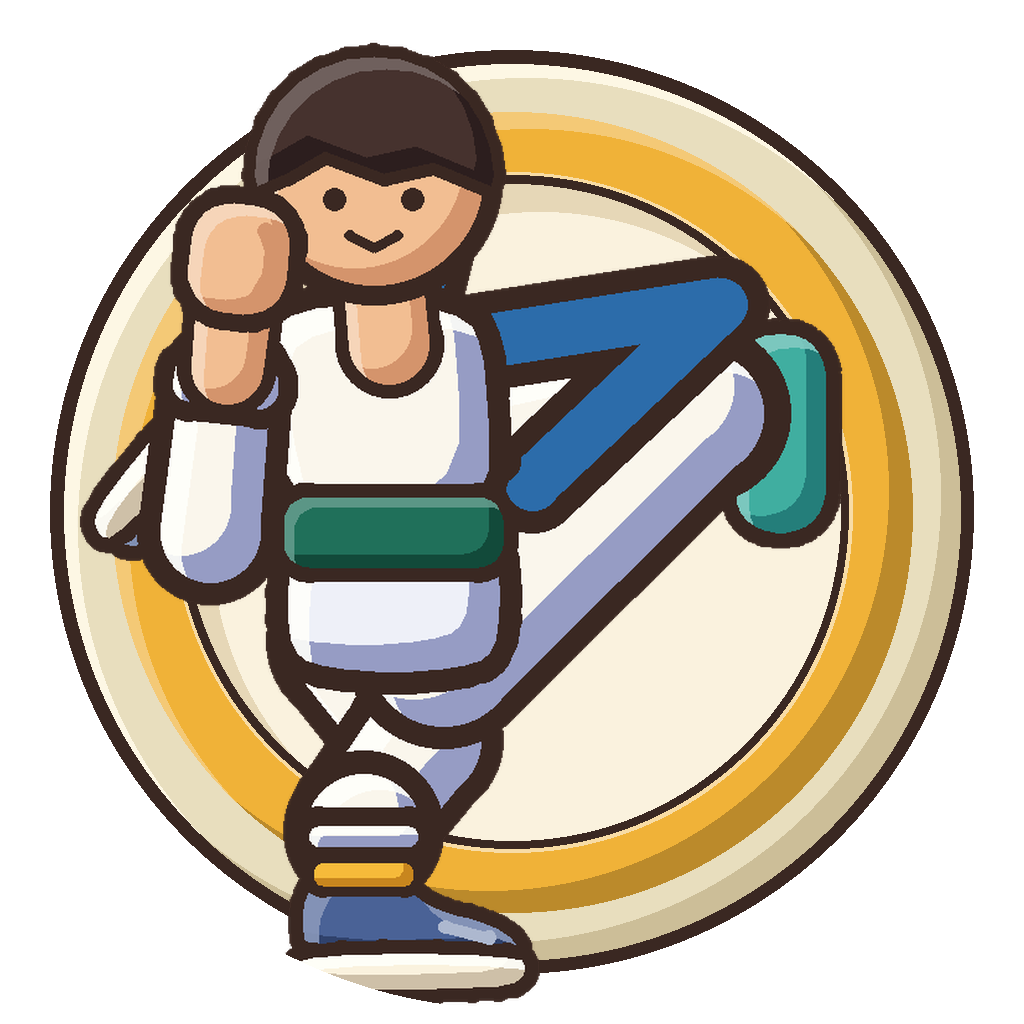
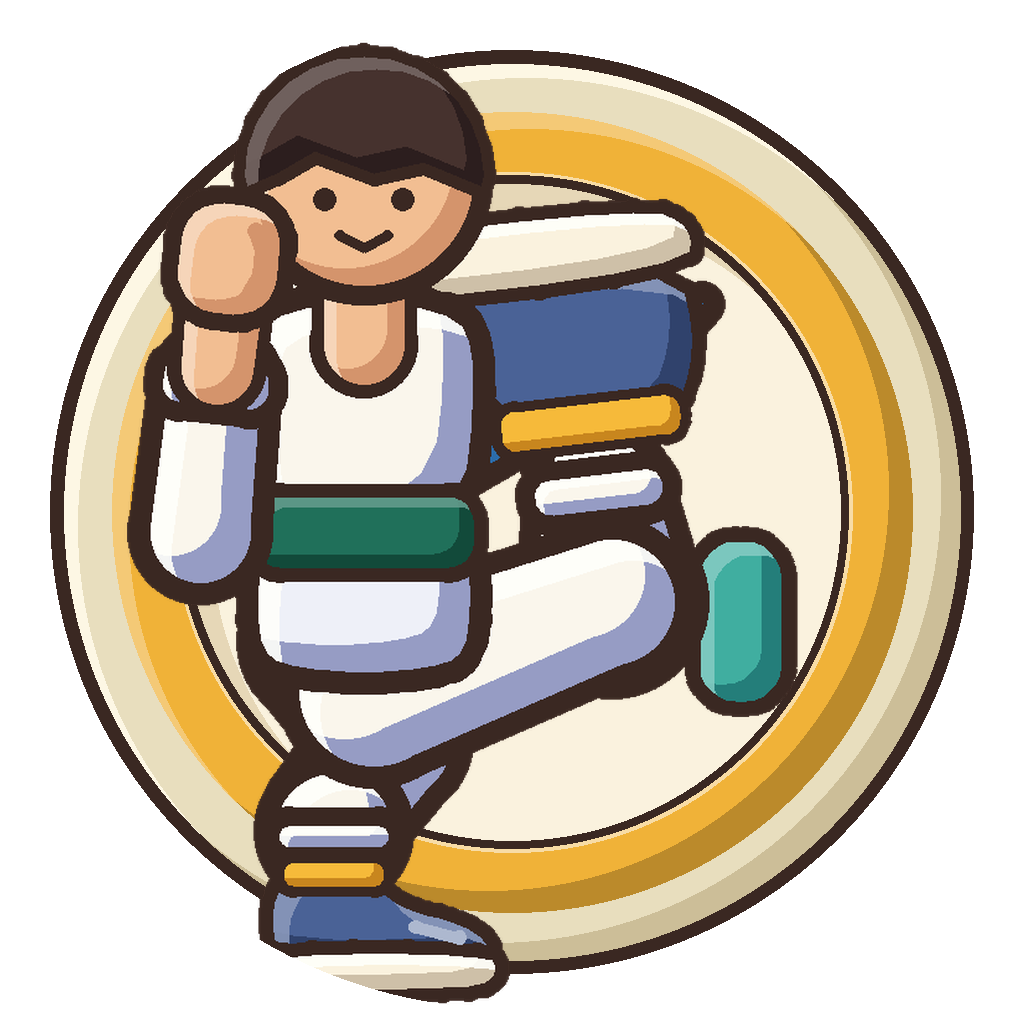
art: G2B-44 add Spin Kick and a clearer Hook Kick heel
Spin Kick is the spinning outside kick from the curriculum. Butterfly
Flow is unchanged and marked unconfirmed, because the docs do not
describe that pose. The first drafts are kept in superseded.

Changed region(s): [[0.0625, 0.0312, 0.8438, 1.0]]

diff --git a/incoming-art/icons-strikes/source/strike_icons.py b/incoming-art/icons-strikes/source/strike_icons.py
@@ -2,18 +2,12 @@
 No outside art pack. No Blender: these are the 2D medallion family, not 3D world sprites.
 The kit lives in incoming-art/icons-slots/source (project code, already on main).
 
-Ids and sources (nothing invented):
-  butterfly-flow  Strike #3, Orange, beta. content/abilities/strikes.json.
-                  docs/curriculum.md combo 3: same as 2, plus a round kick and a tornado kick
-                  (the school calls it a butterfly kick). Game shape: spins the other way from
-                  Jumping Spins (drafts/planning/R-G2B-strikes-4-7.md).
-  side-kick-drive Strike #4, Green. Redesign name. Jay, curriculum combo 4: step-behind side kicks.
-                  Game shape: steps in and drives the other person back.
-  hook-kick       Strike #5, Blue. Jay, Nov 8 (J20): the name is Hook Kick. Curriculum combo 5
-                  includes a step-behind hook kick. J19: it reaches around a guard.
-
-#1 spin-kick is not drawn here. The merged strike.png is the slot picture (a front kick on a pad).
-jumping-spins.png is Strike #2. Neither is the spinning outside kick that ends combo 1.
+Ids and sources. Line numbers are in the Delivery Note. Nothing here is a pose the docs did not name.
+  spin-kick       Strike #1. docs/curriculum.md:46 spinning outside kick (spin kick). Not a jump.
+  butterfly-flow  Strike #3. docs/curriculum.md:48 names a round kick and a tornado kick
+                  (butterfly kick). The pose is not described. Confirmation required.
+  side-kick-drive Strike #4. docs/curriculum.md:49 step-behind side kick.
+  hook-kick       Strike #5. docs/curriculum.md:50 step-behind hook kick. The returning heel is drawn larger.
 """
 import math
 import os
@@ -85,6 +79,26 @@ def poly_of_rect(cx, cy, w, h, r):
 CREAM_GI = (250, 246, 236)
 
 
+def spin_kick():
+    """#1. The finishing kick of combo 1: a spinning outside kick. Not a jump.
+    docs/curriculum.md line 46 names it. The line does not give the angle or the height."""
+    a = Art()
+    hx = 114
+    _support(a, hx)
+    hip_pt = (hx + 2, 152)
+    # across at chest height, so it is not the steep kick on Jumping Spins and not the front kick on the slot picture.
+    # That height is a reading of "outside", which the curriculum lists apart from "front". The number is not in the docs.
+    reach, deg = 66.0, 22.0
+    ankle = (hip_pt[0] + reach * math.cos(math.radians(deg)), hip_pt[1] - reach * math.sin(math.radians(deg)))
+    knee = ((hip_pt[0] + ankle[0]) / 2, (hip_pt[1] + ankle[1]) / 2)
+    sole = hip_high_kick(a, hip_pt, knee, ankle, flex=14)
+    burst(a, sole[0], sole[1], 6, 12, 6, .12)
+    _torso(a, hx, lean=8)
+    # one spin. The arrow sits in the cream. Combo 2 is the one with three jumping spins.
+    arrow(a, [(hx - 40, 170), (hx - 6, 190), (hx + 30, 172)], BLUE_S, 14, 28, outline=INKC, ink_ow=4.6, spread=0.9)
+    return _finish(a)
+
+
 def butterfly_flow():
     """#3. A tornado kick (the school's butterfly kick): one leg swings in a round arc,
     and the spin arrow runs the other way from Jumping Spins (head on the right)."""
@@ -124,28 +138,32 @@ def side_kick_drive():
 
 
 def hook_kick():
-    """#5. Hook kick: the leg reaches around. Heel comes back. Curved arrow shows the hook.
-    A pad stands in for the guard it reaches around. No person is drawn as the target."""
+    """#5. Hook kick. The curriculum names a step-behind hook kick and does not give the angle.
+    The heel is drawn large and in open space so the return reads at 30 px. A pad stands in for the guard."""
     a = Art()
-    hx = 104
+    hx = 98
     _support(a, hx)
-    # thigh lifts forward, shin folds back, heel returns. The bend is the hook.
-    hip_pt = (hx + 10, 156)
-    knee = (hip_pt[0] + 52, hip_pt[1] - 48)
-    # the heel comes all the way back, past the hip, so the hook reads as a hook and not a straight kick
-    ankle = (hip_pt[0] - 28, hip_pt[1] - 36)
+    hip_pt = (hx + 2, 164)
+    knee = (hip_pt[0] + 48, hip_pt[1] - 18)
+    # shin folds back and up. The shoe is large and sits in the cream, clear of the head and the fist.
+    ankle = (knee[0] - 4, knee[1] - 34)
     from toon import poly, rrect_pts
-    a.shape(poly(rrect_pts(knee[0] + 16, knee[1] + 4, 18, 40, 8)), PAD, PAD_S, lighten(PAD, .35), ow=3.2, band=4)
-    sole = hip_high_kick(a, hip_pt, knee, ankle, flex=50)
-    # arrow in the cream above the hook, head pointing back with the heel. It does not cover the shoe.
-    arrow(a, [(hip_pt[0] + 18, hip_pt[1] - 34), (knee[0] + 4, knee[1] - 22), (ankle[0] + 8, ankle[1] - 22)],
-          BLUE_S, 11, 22, outline=INKC, ink_ow=4.6, spread=0.88)
-    burst(a, ankle[0], ankle[1], 6, 12, 6, .15)
-    _torso(a, hx, lean=4)
+    a.shape(poly(rrect_pts(knee[0] + 26, knee[1] + 4, 16, 32, 7)), PAD, PAD_S, lighten(PAD, .35), ow=3.2, band=4)
+    # arrow first, so the returning shoe is drawn on top of it
+    arrow(a, [(hip_pt[0] - 6, hip_pt[1] - 36), (knee[0] - 16, knee[1] - 40), (ankle[0] - 18, ankle[1] - 8)],
+          BLUE_S, 12, 26, outline=INKC, ink_ow=4.6, spread=0.92)
+    dx, dy = knee[0] - ankle[0], knee[1] - ankle[1]
+    dist = math.hypot(dx, dy)
+    ang = math.degrees(math.atan2(-dy / dist, -dx / dist))
+    # bigger shoe than the other icons, so the returning heel is still a shape at 30 px
+    kick_leg(a, ankle, ang, 0, 1.0, dist / 1.0, None, r0=15, r1=11, gow=4.6, gshade=GSH)
+    sleeve(a, hip_pt, knee, 15, 12.5, ow=4.6, shade=GSH, band=6)
+    _torso(a, hx, lean=0)
     return _finish(a)
 
 
 ALL = {
+    'spin-kick': spin_kick,
     'butterfly-flow': butterfly_flow,
     'side-kick-drive': side_kick_drive,
     'hook-kick': hook_kick,
@@ -154,50 +172,63 @@ ALL = {
 def sheet():
     from PIL import Image, ImageDraw, ImageFont, ImageOps
     out = os.path.join(HERE, '..', 'preview')
-    small = ImageFont.truetype('/usr/share/fonts/truetype/dejavu/DejaVuSans.ttf', 18)
+    font = ImageFont.truetype('/usr/share/fonts/truetype/dejavu/DejaVuSans.ttf', 16)
+    tiny = ImageFont.truetype('/usr/share/fonts/truetype/dejavu/DejaVuSans.ttf', 13)
     cells = [
-        ('Jumping Spins #2, approved', os.path.join(SLOTS, '..', 'sprites', 'jumping-spins@2x.png')),
-        ('Strike slot, approved', os.path.join(SLOTS, '..', 'sprites', 'strike@2x.png')),
-        ('#3 Butterfly Flow', os.path.join(out, 'butterfly-flow-full.png')),
-        ('#4 Side Kick Drive', os.path.join(out, 'side-kick-drive-full.png')),
-        ('#5 Hook Kick', os.path.join(out, 'hook-kick-full.png')),
+        ('#2 Jumping Spins, approved',
+         os.path.join(SLOTS, '..', 'sprites', 'jumping-spins@2x.png'),
+         ['Reference, already on main.', 'docs/curriculum.md:47', '3 jumping spin kicks']),
+        ('Strike slot, approved',
+         os.path.join(SLOTS, '..', 'sprites', 'strike@2x.png'),
+         ['Reference, already on main.', 'Front kick on a pad.', 'This is not combo 1.']),
+        ('#1 Spin Kick',
+         os.path.join(out, 'spin-kick-full.png'),
+         ['docs/curriculum.md:46', 'spinning outside kick (spin kick)', 'Not a jump. Angle not in the doc.']),
+        ('#3 Butterfly Flow',
+         os.path.join(out, 'butterfly-flow-full.png'),
+         ['docs/curriculum.md:48', 'round kick and butterfly kick', 'POSE NOT IN THE DOCS. Confirm.']),
+        ('#4 Side Kick Drive',
+         os.path.join(out, 'side-kick-drive-full.png'),
+         ['docs/curriculum.md:49', 'step-behind side kick', 'Unchanged from the first draft.']),
+        ('#5 Hook Kick',
+         os.path.join(out, 'hook-kick-full.png'),
+         ['docs/curriculum.md:50', 'step-behind hook kick', 'Returning heel drawn larger.']),
     ]
-    big = 300
-    sizes = (128, 96, 64, 40, 30)
-    col = 420
-    pad = 20
-    # each column: label, large, then colour sizes, then grey sizes
-    size_block = 20 + 128 + 8
-    H = pad + 28 + big + 16 + size_block + 8 + size_block + pad
+    big = 260
+    col = 390
+    pad = 14
+    H = 1180
     W = pad + len(cells) * col
     img = Image.new('RGB', (W, H), (28, 26, 24))
     d = ImageDraw.Draw(img)
-    d.text((pad, 6), 'G2B-44 drafts beside the approved Strike family. Under each: colour, then grey, at 128, 96, 64, 40, 30.', fill=(250, 246, 236), font=small)
-    for i, (label, path) in enumerate(cells):
+    d.text((pad, 8), 'G2B-44. Two approved references, then samples #1 #3 #4 #5. True 40 and 30, colour then grey. The x4 boxes are the same pixels, enlarged.', fill=(250, 246, 236), font=tiny)
+    for i, (label, path, cite) in enumerate(cells):
         x = pad + i * col
-        y = 36
-        d.text((x, y), label, fill=(250, 246, 236), font=small)
+        y = 32
+        d.text((x, y), label, fill=(250, 246, 236), font=font)
         im = Image.open(path).convert('RGBA')
         big_im = im.resize((big, big), Image.LANCZOS)
         tile = Image.new('RGBA', (big, big), (28, 26, 24, 255))
         tile.alpha_composite(big_im)
-        img.paste(tile.convert('RGB'), (x, y + 24))
-        y2 = y + 24 + big + 8
+        img.paste(tile.convert('RGB'), (x, y + 22))
+        for n, line in enumerate(cite):
+            d.text((x, y + 24 + big + 2 + n * 15), line, fill=(232, 196, 120), font=tiny)
+        y2 = y + 24 + big + 50
         for grey, word in ((False, 'colour'), (True, 'grey')):
-            d.text((x, y2), word, fill=(250, 246, 236), font=small)
-            sx = x
-            sy = y2 + 22
-            for sz in sizes:
+            for sz in (40, 30):
                 one = im.resize((sz, sz), Image.LANCZOS)
                 if grey:
                     g = ImageOps.grayscale(one)
                     one = Image.merge('RGBA', (g, g, g, one.split()[-1]))
-                box = Image.new('RGBA', (sz, sz + 16), (28, 26, 24, 255))
-                ImageDraw.Draw(box).text((0, 0), str(sz), fill=(200, 190, 170), font=small)
-                box.alpha_composite(one, (0, 16))
-                img.paste(box.convert('RGB'), (sx, sy))
-                sx += sz + 6
-            y2 = sy + 128 + 10
+                d.text((x, y2), f'{word} {sz} true, then the same pixels x4', fill=(200, 190, 170), font=tiny)
+                true = Image.new('RGBA', (sz, sz), (28, 26, 24, 255))
+                true.alpha_composite(one)
+                img.paste(true.convert('RGB'), (x, y2 + 18))
+                zoom = one.resize((sz * 4, sz * 4), Image.NEAREST)
+                box = Image.new('RGBA', (sz * 4, sz * 4), (28, 26, 24, 255))
+                box.alpha_composite(zoom)
+                img.paste(box.convert('RGB'), (x + sz + 8, y2 + 18))
+                y2 += 18 + sz * 4 + 12
     img.save(os.path.join(out, 'sheet-g2b44-samples.png'))
     print('sheet', img.size)
 

diff --git a/incoming-art/icons-strikes/DELIVERY_NOTE.md b/incoming-art/icons-strikes/DELIVERY_NOTE.md
@@ -1,27 +1,70 @@
-# G2B-44 — Strike icon samples (draft)
+# G2B-44 — Strike icon samples, second look (still a draft)
 
-**ITEM.** Three sample Strike icons, before the rest of the set. #3 first, then the next two in the live list.
+Not approved. Not exported. Not pushed.
+
+**ITEM.** Four sample Strike icons on one sheet, next to the two approved Strike pictures already on main. The first three drafts are kept in `superseded/sample-1/`.
 
 **WHAT.**
 
-| # | Live name | File | Where the name comes from |
-| --- | --- | --- | --- |
-| 3 | Butterfly Flow | `preview/butterfly-flow-full.png` | `content/abilities/strikes.json` id `butterfly-flow`. Jay, `docs/curriculum.md` combo 3: the same as combo 2, plus a round kick and a tornado kick (the school calls it a butterfly kick). The redesign says this one spins the other way from Jumping Spins. |
-| 4 | Side Kick Drive | `preview/side-kick-drive-full.png` | `drafts/planning/R-G2B-strikes-4-7.md`. Jay, combo 4: step-behind side kicks. Not in `strikes.json` yet. |
-| 5 | Hook Kick | `preview/hook-kick-full.png` | Jay, Nov 8 (J20): the name is Hook Kick. Combo 5 includes a step-behind hook kick. J19: it reaches around a guard. The teal pad stands in for that guard. Not in `strikes.json` yet. |
+| # | File | What changed |
+| --- | --- | --- |
+| 1 | `preview/spin-kick-full.png` | New. The finishing kick of combo 1. |
+| 3 | `preview/butterfly-flow-full.png` | Same pixels as the first draft. Pose is not confirmed. |
+| 4 | `preview/side-kick-drive-full.png` | Same pixels as the first draft. |
+| 5 | `preview/hook-kick-full.png` | Returning heel is larger and sits in open space. |
 
-Review sheet: `preview/sheet-g2b44-samples.png`. The left two pictures are the approved Strike family already on main (Jumping Spins, and the Strike slot picture). The right three are these drafts, large, then at true 128, 96, 64, 40 and 30, in colour and in grey.
+Sheet: `preview/sheet-g2b44-samples.png`. Each column has the large picture, the source line, then true 40 and true 30 in colour and in grey. The bigger boxes are those same pixels enlarged.
 
-**WHY.** The art plan says the beta needs the #3 Strike icon. #4 and #5 are the next two. #6 Lunge and #7 Spinning Finisher wait until these three are looked at. G2B-41 and G2B-42 were not started.
+Approved references on the sheet: `incoming-art/icons-slots/sprites/jumping-spins@2x.png` (Strike #2) and `strike@2x.png` (the slot picture, a front kick on a pad). The slot picture is not combo 1.
 
-**#1 is not in the merged set.** Combo 1 is Spin Kick: it ends with a spinning outside kick (`docs/curriculum.md`, and `strikes.json` id `spin-kick`). The merged `strike.png` is the slot picture (a front kick on a pad). `jumping-spins.png` is Strike #2. Neither is combo 1. This sample round does not draw #1.
+**WHY.** #1 was missing. #3 reads too close to #2, and the docs do not describe that pose, so it is marked for confirmation instead of being redrawn into a guess. #5's returning heel did not read at 30 px.
 
-**Checks.** Drawn with the same medallion kit as the approved icons (gold Strike rim, dark ink outline, pine belt `#20705A` already used on Jumping Spins). One mitten fist. Shoes are the shared toeless shoe. No red pixels. Nothing is cut off by the canvas edge (about 19 px of clear space on the 1024 drawing, which is about 2 px on the 128 file).
+## What the docs say, and what they do not
+
+### #1 Spin Kick — drawn from the named kick
+
+Specified:
+
+- `docs/curriculum.md:46` — combo 1 ends with "spinning outside kick (spin kick)", after two front kicks, an inside kick, and an outside kick.
+- `docs/curriculum.md:47` — the jump belongs to combo 2 ("an additional 3 jumping spin kicks"). Combo 1 does not say jump.
+- `content/abilities/strikes.json:5-16` — id `spin-kick`, name Spin Kick, text "One big spinning kick.", one hit.
+- `drafts/planning/R-G2B-strikes-4-7.md:21` — one heavy hit, long reach, real combo ends with a spinning outside kick.
+- `incoming-art/menu-catalog/sprites/moves-text.json:706-721` — the same five steps, last step "Spinning outside kick."
+
+Not specified: the hip angle, the height, and which way the body turns. The picture shows one standing kick with the leg across at about chest height, and one spin arrow. That is so it is not the steep kick on Jumping Spins and not the front kick on the slot picture. The angle itself is not in the docs.
+
+### #3 Butterfly Flow — confirmation required
+
+Specified:
+
+- `docs/curriculum.md:48` — combo 3 is combo 2 plus "an additional round kick and tornado kick (we call it butterfly kick)."
+- `content/abilities/strikes.json:35-46` — id `butterfly-flow`, name Butterfly Flow, text "Spin the other way. It takes a moment to land, but it hits harder."
+- `drafts/planning/R-G2B-strikes-4-7.md:12` — "spins the opposite way, hits harder, slower to land."
+- `drafts/planning/R-G2B-strikes-4-7.md:23` — real combo ends with "round kick and butterfly kick."
+- `incoming-art/menu-catalog/sprites/moves-text.json:738-750` — same sentence as the curriculum. `stepsNeedReview` is true on that entry.
+
+Not specified: body upright or flat, which of the two added kicks to draw, which leg, the knee, or the height. The first-draft picture is still on the sheet and it reads too close to Jumping Spins. That picture is not claimed to be the right pose.
+
+### #4 Side Kick Drive — unchanged
+
+Specified: `docs/curriculum.md:49` begins with step-behind side kicks. The name Side Kick Drive is in `drafts/planning/R-G2B-strikes-4-7.md:24`. This icon was not redrawn.
+
+### #5 Hook Kick — heel only
+
+Specified:
+
+- `docs/curriculum.md:50` — "step behind hook kick" twice, then three front kicks.
+- `drafts/planning/R-G2B-strikes-4-7.md:25` — Jay, Nov 8 (J20), the name is Hook Kick. J19: it reaches around a guard.
+- `incoming-art/menu-catalog/sprites/moves-text.json:766-776` — the curriculum sentence. The game name there is still empty.
+
+The change is the size and the placement of the returning heel, so it stays a separate shape at 30 and 40. The angle is still not in the docs. The teal pad stands in for the guard. No new kick was added.
+
+**Checks.** Dark ink outline, gold Strike rim, pine belt `#20705A` (the same placeholder already on Jumping Spins). One mitten fist. Toeless shoes. No red pixels. Canvas margin about 19 px on the 1024 drawing (about 2 px on the 128 file). #3 and #4 match the archived first drafts pixel for pixel.
 
 **DECIDE.**
 
-1. Butterfly Flow is drawn as an upright spinning round kick, because the curriculum says the tornado kick is what the school calls a butterfly kick, and the redesign says it spins the other way from Jumping Spins. Is that the kick, or do you want the body flat in the air with both legs (the trick people also call a butterfly)?
-2. Hook Kick reads as a hook when it is large. At 30 and 40 it mostly reads as a raised leg. Keep this, or push the returning heel further so the hook survives at 30?
-3. Confirm #1 Spin Kick still needs its own icon before the full set. I will not draw it until you say so.
+1. Butterfly Flow: the docs name a round kick and a butterfly kick (their word for a tornado kick) and say it spins the other way. They do not describe the pose. Which kick should the icon show, and what does that pose look like?
+2. Spin Kick: is a standing kick across at chest height a fair picture of the spinning outside kick, or does the school draw that kick differently?
+3. Hook Kick: is the larger returning heel clear enough at 30 px?
 
-**NEXT.** After you look at these three: #1 if you want it, then #6 Lunge and #7 Spinning Finisher. No export, and nothing goes into the game, until you say the samples are right.
+**NEXT.** After this look: #6 and #7 only if these four are accepted. Do not start G2B-40, G2B-41, or G2B-42 here. The queue order for those is 40, then 41, then 42. No export until you say so.

diff --git a/incoming-art/icons-strikes/README.md b/incoming-art/icons-strikes/README.md
@@ -1,22 +1,23 @@
 # Strike icons (G2B-44 samples)
 
-Draft samples only. Not approved, and not the import set.
+Drafts only. Not approved, and not the import set. Nothing in this folder has been exported into the game.
 
-## The three samples
+## This look
 
 | File | Strike |
 | --- | --- |
-| `preview/butterfly-flow-full.png` | #3 Butterfly Flow (beta) |
-| `preview/side-kick-drive-full.png` | #4 Side Kick Drive |
-| `preview/hook-kick-full.png` | #5 Hook Kick |
-| `preview/sheet-g2b44-samples.png` | Approved family beside the three drafts, plus true 128 / 96 / 64 / 40 / 30 in colour and grey |
+| `preview/spin-kick-full.png` | #1 Spin Kick. Combo 1 ends with a spinning outside kick (`docs/curriculum.md:46`). |
+| `preview/butterfly-flow-full.png` | #3 Butterfly Flow. Same picture as the first draft. Pose is not in the docs. Confirmation required (`docs/curriculum.md:48`). |
+| `preview/side-kick-drive-full.png` | #4 Side Kick Drive. Unchanged (`docs/curriculum.md:49`). |
+| `preview/hook-kick-full.png` | #5 Hook Kick. Returning heel drawn larger (`docs/curriculum.md:50`). |
+| `preview/sheet-g2b44-samples.png` | Those four, plus the approved Jumping Spins and the approved Strike slot picture. True 40 and 30, colour and grey. |
 
-The drawing script is `source/strike_icons.py`. It uses the medallion kit already on main (`incoming-art/icons-slots/source`). Same gold Strike rim, same ink outline, same pine belt as the approved Jumping Spins. Pillow only. No outside art pack. Blender is for the 3D world sprites, not for these flat slot pictures.
+The first three drafts (before this look) are in `superseded/sample-1/`. They were not deleted.
 
-Run it from the repo root:
+The drawing script is `source/strike_icons.py`. It uses the medallion kit already on main (`incoming-art/icons-slots/source`). Pillow only. No outside art pack.
 
 ```
 python3 incoming-art/icons-strikes/source/strike_icons.py
 ```
 
-See `DELIVERY_NOTE.md` for the technique sources and the three things still to decide.
+See `DELIVERY_NOTE.md` for the line-by-line sources and the three open questions.

diff --git a/incoming-art/icons-strikes/superseded/sample-1/README.md b/incoming-art/icons-strikes/superseded/sample-1/README.md
@@ -1,0 +1,5 @@
+# First G2B-44 sample pass
+
+Kept on purpose. These are the three drafts from the first look: Butterfly Flow, Side Kick Drive, and Hook Kick, plus that sheet.
+
+Butterfly Flow and Side Kick Drive were not redrawn. Hook Kick was redrawn afterward so the returning heel reads at 30 px. The newer files are in `preview/`.
